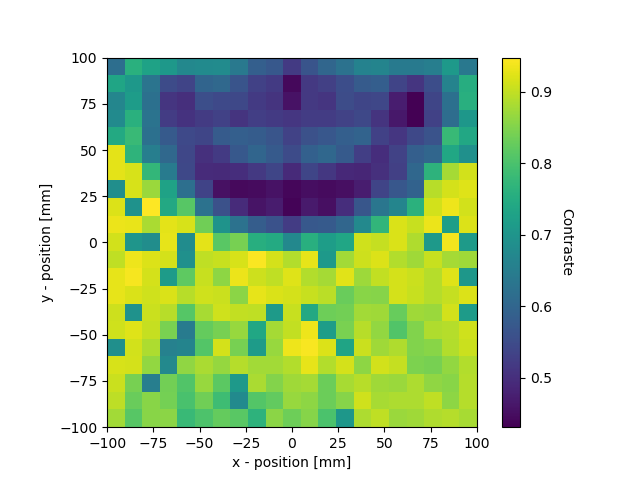
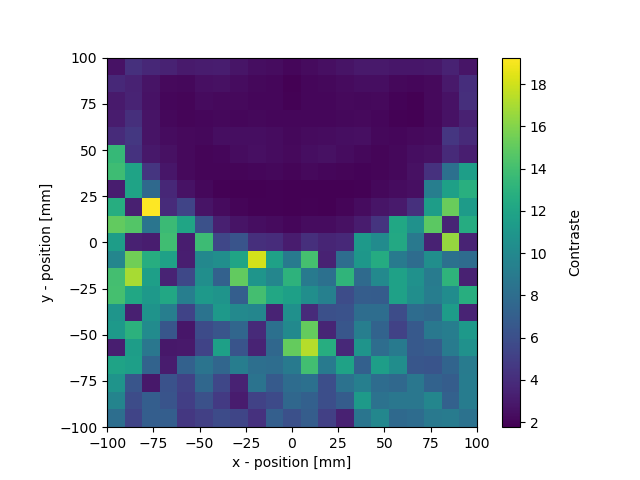
contraste update

diff --git a/Mandat2/rapportPreparatoire.py b/Mandat2/rapportPreparatoire.py
@@ -16,13 +16,14 @@ def cont_res(x, y):
     right = int(contwidth[3][0])
     # calcule la moyenne de ces points comme baseline
     base = (np.mean(y[x < x[left]]) + np.mean(y[x > x[right]]))/2
-    contrast = np.max(y) - base
+    contrast = 1 / base
+    print(max(y))
     # considère que le contraste est nulle si une mesure invalide est faite
     if np.isnan(contrast):
         contrast = 0
     return [contrast, resolution]
 
-carre = io.loadmat(r'Croco\croco_correl.mat')
+carre = io.loadmat(r'DemiCercle\correl_demi_cercle.mat')
 position = io.loadmat(r'DemiCercle\position.mat')
 x_plot = io.loadmat(r'DemiCercle\x_plot.mat')
 
